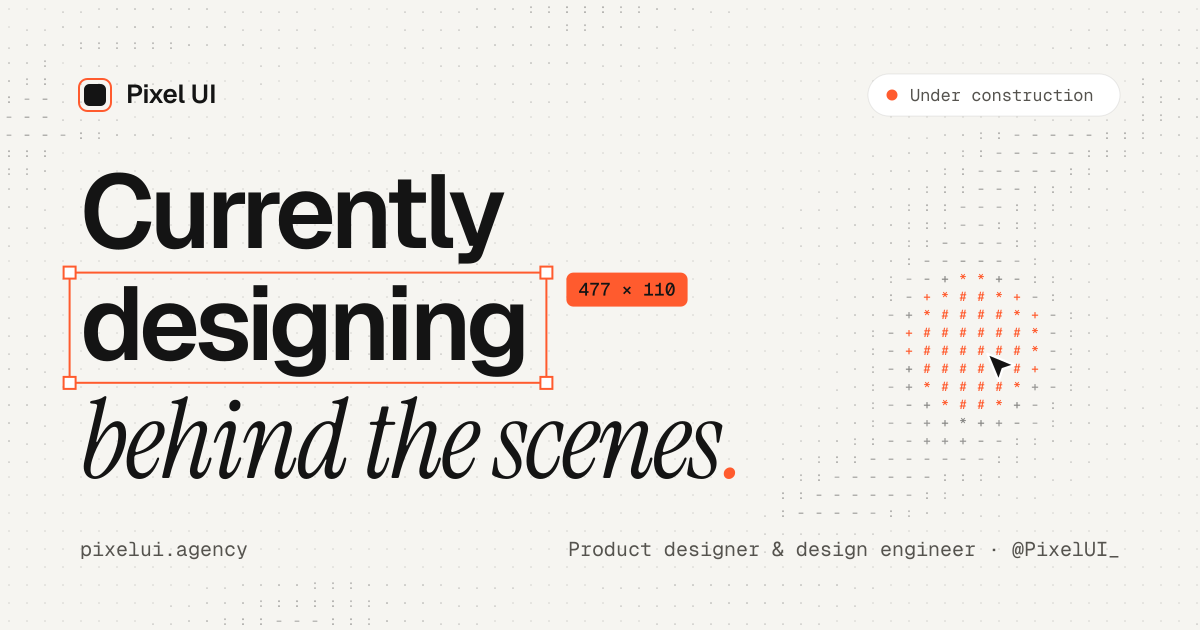
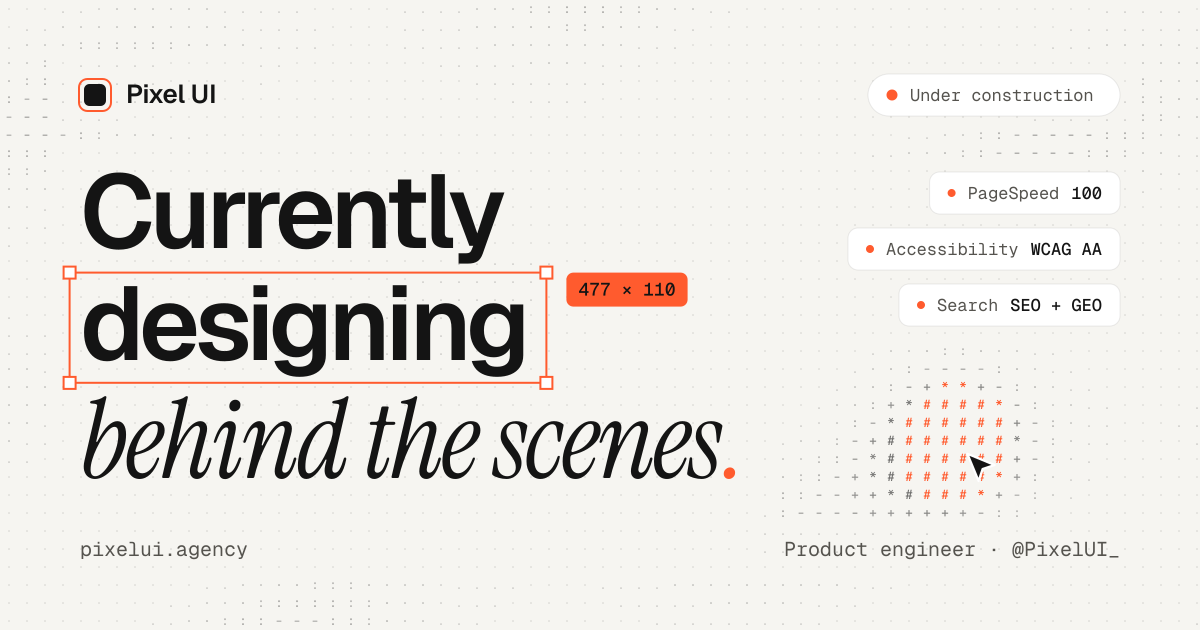
feat: reposition as product engineer
- <title>, meta/OG/Twitter descriptions, JSON-LD and manifest now say "Product engineer"
- og-image: new footer line and PageSpeed / WCAG AA / SEO + GEO chips

diff --git a/index.html b/index.html
@@ -3,8 +3,8 @@
 <head>
   <meta charset="utf-8">
   <meta name="viewport" content="width=device-width, initial-scale=1, viewport-fit=cover">
-  <title>Pixel UI — Product designer &amp; design engineer, Paris</title>
-  <meta name="description" content="Product designer &amp; design engineer. Currently designing behind the scenes — reach me on X.">
+  <title>Pixel UI — Product engineer for fast, accessible web apps</title>
+  <meta name="description" content="Product engineer. I build web apps and websites that are clean, fast and accessible: thoughtful UX, solid SEO/GEO, green PageSpeed scores.">
   <meta name="theme-color" content="#F6F5F1">
   <link rel="canonical" href="https://pixelui.agency/">
 
@@ -12,8 +12,8 @@
   <meta property="og:site_name" content="Pixel UI">
   <meta property="og:locale" content="en_US">
   <meta property="og:url" content="https://pixelui.agency/">
-  <meta property="og:title" content="Pixel UI — Product designer &amp; design engineer">
-  <meta property="og:description" content="Product designer &amp; design engineer. Currently designing behind the scenes.">
+  <meta property="og:title" content="Pixel UI — Product engineer">
+  <meta property="og:description" content="Product engineer. I build web apps and websites that are clean, fast and accessible: thoughtful UX, solid SEO/GEO, green PageSpeed scores.">
   <meta property="og:image" content="https://pixelui.agency/og-image.png">
   <meta property="og:image:type" content="image/png">
   <meta property="og:image:width" content="1200">
@@ -23,8 +23,8 @@
   <meta name="twitter:card" content="summary_large_image">
   <meta name="twitter:site" content="@PixelUI_">
   <meta name="twitter:creator" content="@PixelUI_">
-  <meta name="twitter:title" content="Pixel UI — Product designer &amp; design engineer">
-  <meta name="twitter:description" content="Product designer &amp; design engineer. Currently designing behind the scenes.">
+  <meta name="twitter:title" content="Pixel UI — Product engineer">
+  <meta name="twitter:description" content="Product engineer. I build web apps and websites that are clean, fast and accessible: thoughtful UX, solid SEO/GEO, green PageSpeed scores.">
   <meta name="twitter:image" content="https://pixelui.agency/og-image.png">
   <meta name="twitter:image:alt" content="Pixel UI — Currently designing behind the scenes.">
 
@@ -45,7 +45,7 @@
         "url": "https://pixelui.agency/",
         "logo": "https://pixelui.agency/icon-512.png",
         "email": "contact@pixelui.agency",
-        "description": "Product designer & design engineer.",
+        "description": "Product engineer building clean, fast and accessible web apps and websites.",
         "sameAs": ["https://x.com/PixelUI_"]
       },
       {
@@ -59,8 +59,8 @@
       {
         "@type": "WebPage",
         "@id": "https://pixelui.agency/#webpage",
-        "name": "Pixel UI — Product designer & design engineer, Paris",
-        "description": "Product designer & design engineer. Currently designing behind the scenes — reach me on X.",
+        "name": "Pixel UI — Product engineer for fast, accessible web apps",
+        "description": "Product engineer. I build web apps and websites that are clean, fast and accessible: thoughtful UX, solid SEO/GEO, green PageSpeed scores.",
         "url": "https://pixelui.agency/",
         "inLanguage": "en",
         "isPartOf": { "@id": "https://pixelui.agency/#website" },
